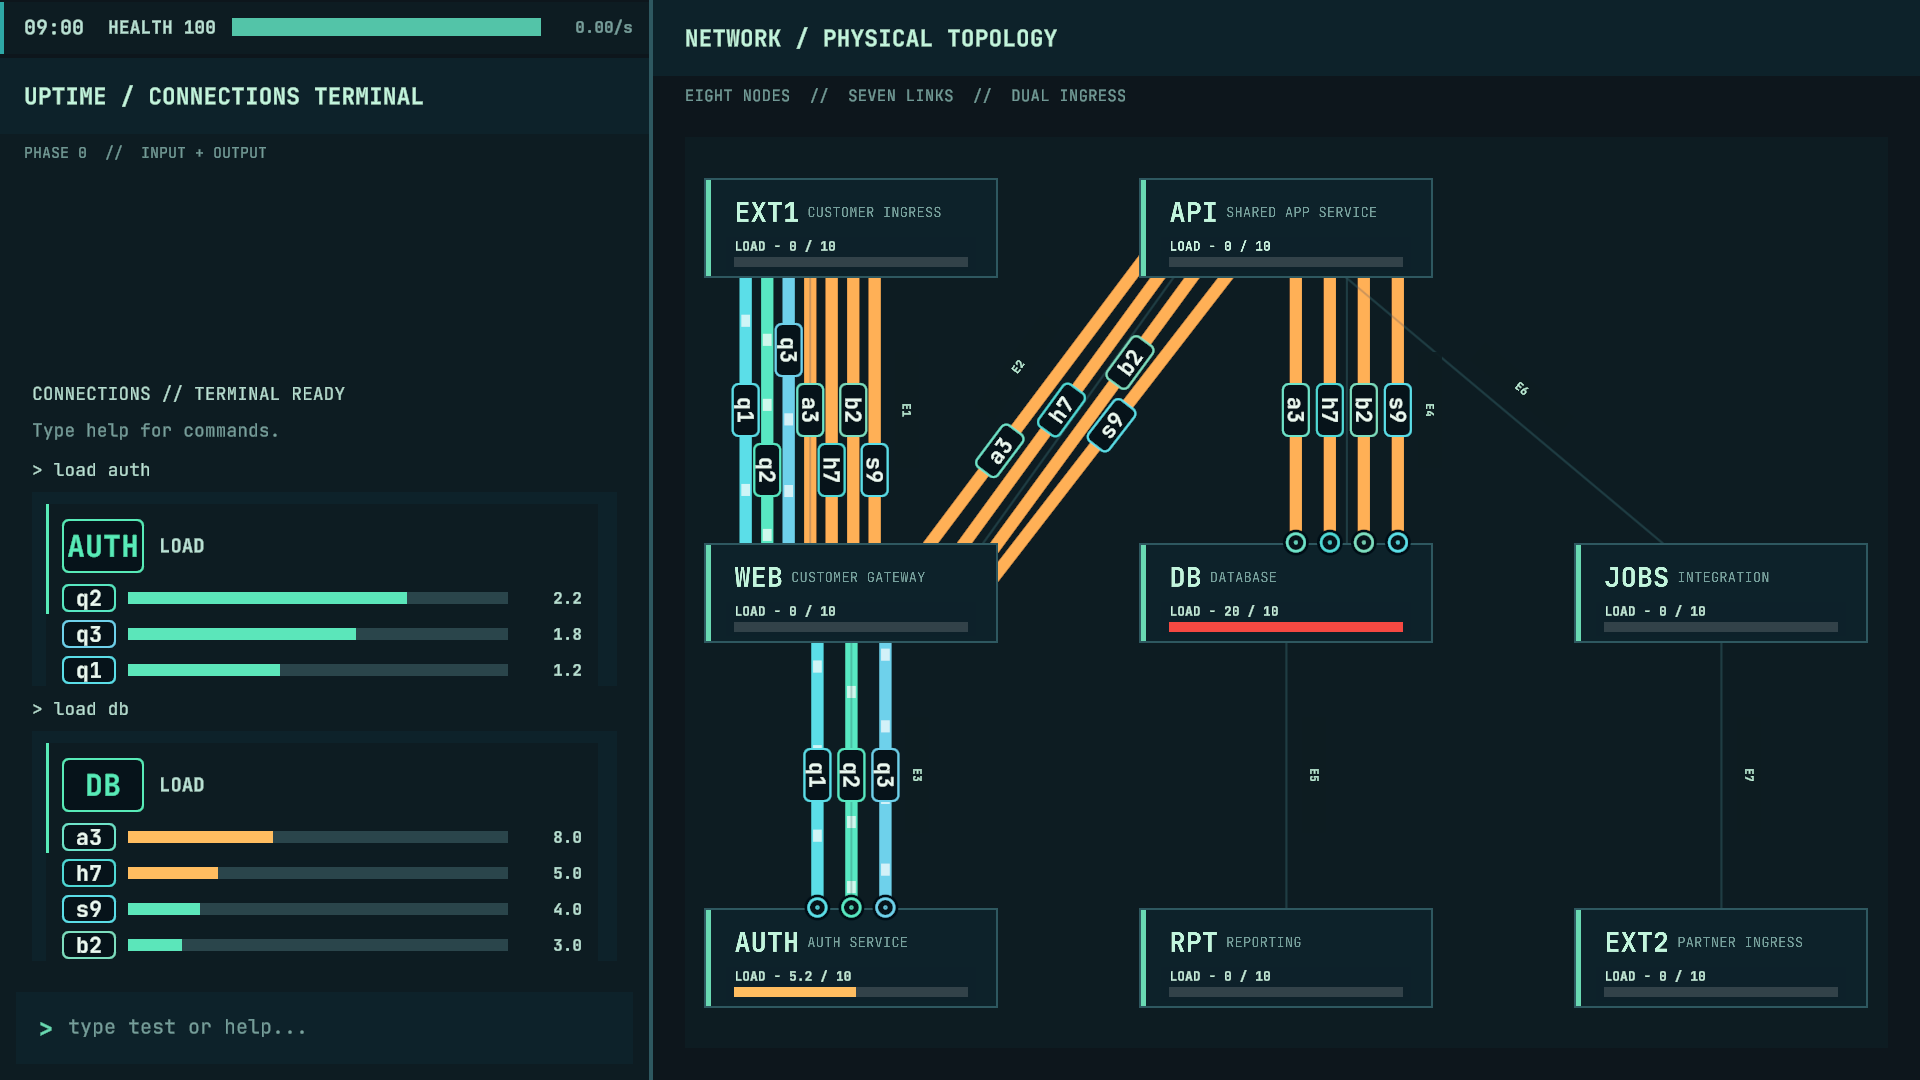
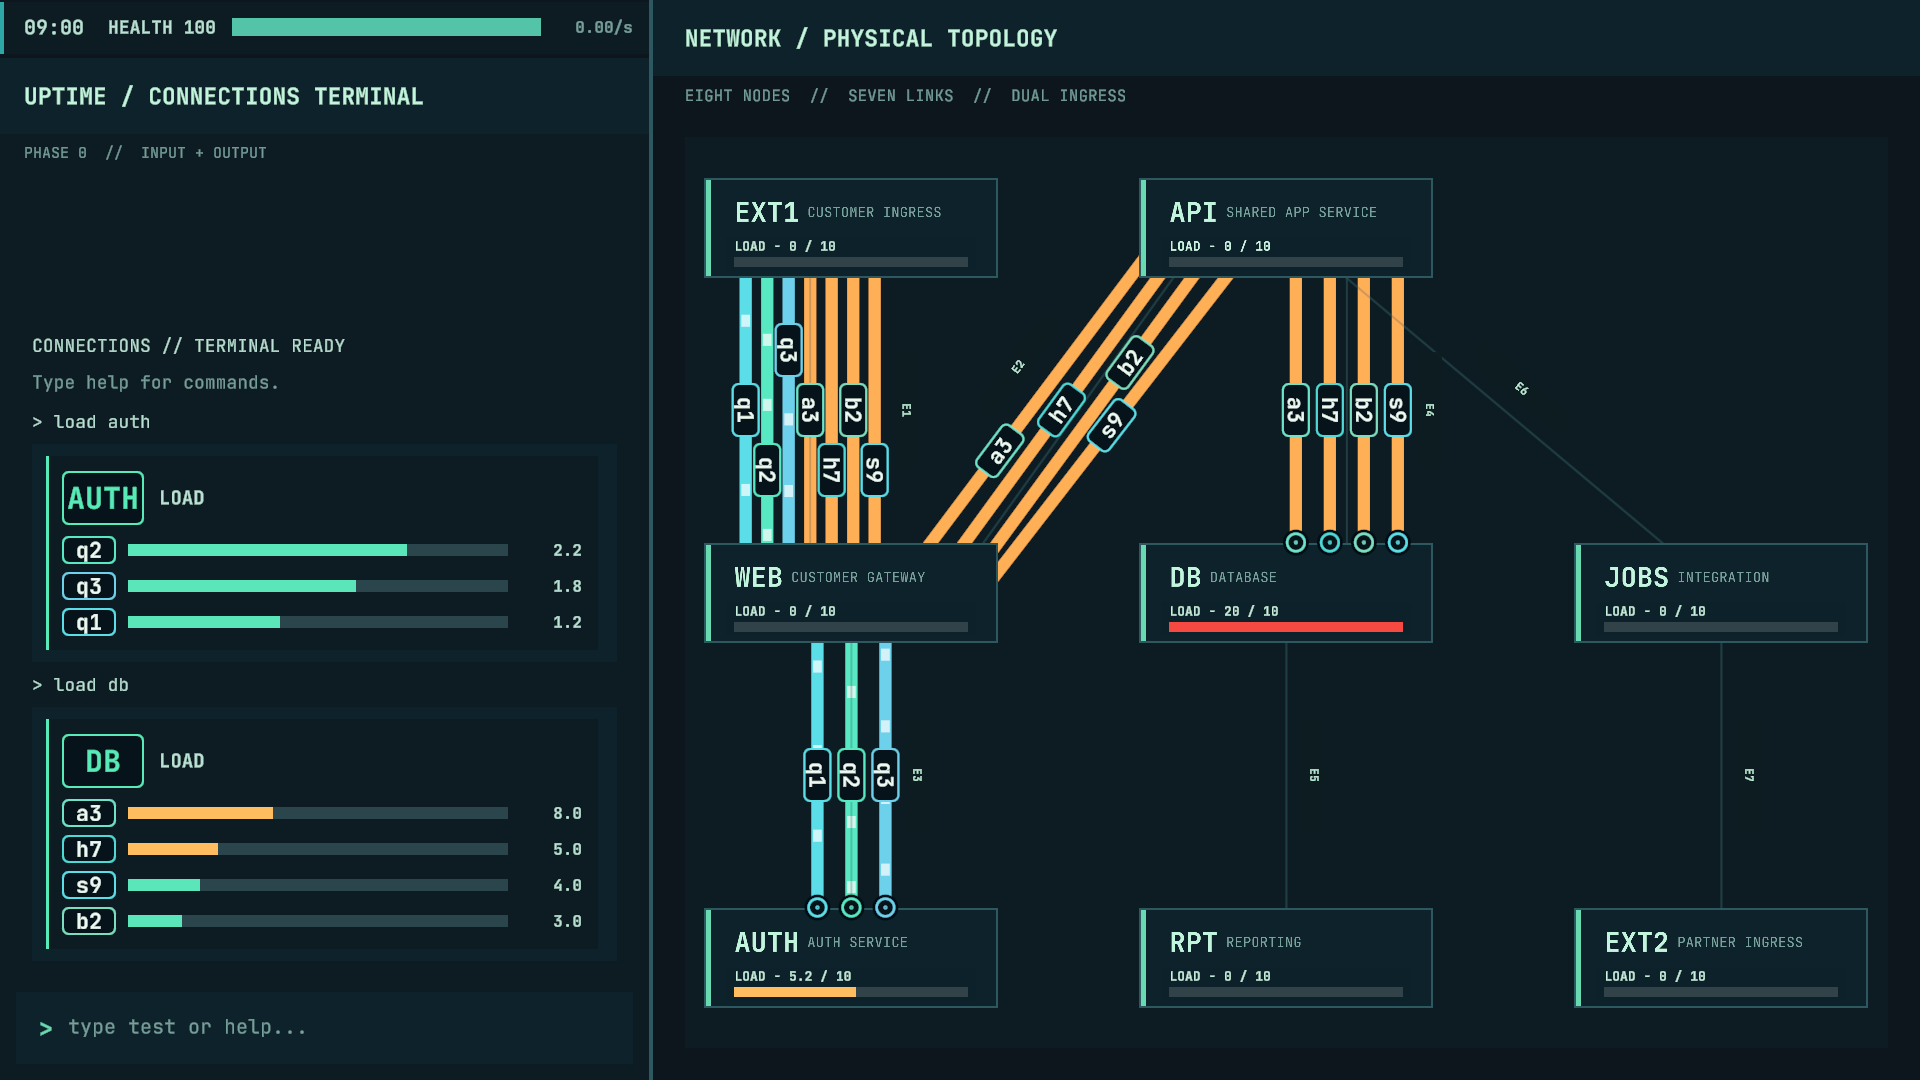
Restore LOAD card bottom spacing

Changed region(s): [[0.0312, 0.4278, 0.3125, 0.8861], [0.0, 0.3056, 0.1875, 0.3972], [0.0938, 0.3972, 0.125, 0.4278]]

diff --git a/Assets/Editor/LoadOutputWitness.cs b/Assets/Editor/LoadOutputWitness.cs
@@ -57,9 +57,6 @@ namespace Uptime.Connections.EditorTools
 
                 var parent = new GameObject("LOAD witness width", typeof(RectTransform));
                 ((RectTransform)parent.transform).sizeDelta = new Vector2(320f, 800f);
-                var scroll = parent.AddComponent<ScrollRect>();
-                scroll.enabled = false;
-                scroll.viewport = (RectTransform)parent.transform;
                 LoadOutput panel = UnityEngine.Object.Instantiate(prefab, parent.transform);
                 LoadOutput second = UnityEngine.Object.Instantiate(prefab, parent.transform);
                 try
@@ -77,9 +74,10 @@ namespace Uptime.Connections.EditorTools
                         !Rows(panel).Any() && panel.CurrentScale == 3f,
                         "zero-demand node has no obsolete rows");
                     Check(((RectTransform)panel.transform).rect.width == 320f &&
-                        ((RectTransform)panel.transform).rect.height == 122f &&
+                        ((RectTransform)panel.transform).rect.height == 146f &&
                         Empty(panel).preferredWidth <= Empty(panel).rectTransform.rect.width,
                         "narrow terminal width and empty layout");
+                    CheckBottomGutter(panel, 0);
 
                     NodeView[] route = { Node(host, "EXT1"), Node(host, "API"),
                         Node(host, "DB") };
@@ -95,6 +93,7 @@ namespace Uptime.Connections.EditorTools
                         RowFill(small).color == PanelColor(panel, "modestColor") &&
                         host.FindConnection("l5").AllocatedLoad == 2.2f,
                         "small request gets a useful relative teal bar at full allocation");
+                    CheckBottomGutter(panel, 1);
                     panel.Bind("DB", host);
                     Queue(traffic, route, "l1", new OperationStage(OperationKind.Read,
                         1000f, 4f, "spiking", behaviors: new[] {
@@ -115,6 +114,7 @@ namespace Uptime.Connections.EditorTools
                         panel.CurrentScale == second.CurrentScale &&
                         RowIds(panel).SequenceEqual(new[] { "l2", "l1", "l3" }),
                         "multiple panels share authoritative requests independently");
+                    CheckBottomGutter(panel, 3);
                     float low = spike.DesiredLoad;
                     float lowBar = Row(panel, "l1").FillFraction;
                     Check(low >= 3.9f && low <= 4.1f &&
@@ -187,6 +187,7 @@ namespace Uptime.Connections.EditorTools
                         panel.GetComponentsInChildren<LoadRequestRow>(true)
                             .Count(r => r.gameObject.activeSelf) == 2,
                         "resolved demand row disappears and layout contracts");
+                    CheckBottomGutter(panel, 2);
                     RefreshAt(panel, clock + 8.3f);
                     Check(panel.CurrentScale <= 5f &&
                         RowIds(panel).SequenceEqual(new[] { "l1", "l3" }),
@@ -217,6 +218,7 @@ namespace Uptime.Connections.EditorTools
                     Check(panel.ConnectionRowCount == 0 && second.ConnectionRowCount == 0 &&
                         !Rows(panel).Any() && Empty(panel).gameObject.activeSelf,
                         "reset clears old connection references in both panels");
+                    CheckBottomGutter(panel, 0);
                 }
                 finally
                 {
@@ -272,13 +274,9 @@ namespace Uptime.Connections.EditorTools
             int before = content.childCount;
             typeof(Terminal).GetMethod("Load", BindingFlags.Instance |
                 BindingFlags.NonPublic).Invoke(terminal, new object[] { new[] { "load", id } });
-            var panel = content.GetChild(before).GetComponent<LoadOutput>();
-            Check(content.childCount == before + 1 && panel != null &&
-                Mathf.Abs(((RectTransform)panel.transform).rect.width -
-                    Mathf.Min(580f, content.rect.width)) < 0.01f &&
-                Mathf.Abs(((RectTransform)panel.transform.Find("LoadCard")).rect.width -
-                    (Mathf.Min(580f, content.rect.width) - 28f)) < 0.01f,
-                "valid command appends a live panel with the inspect/scan gutter");
+            Check(content.childCount == before + 1 &&
+                content.GetChild(before).GetComponent<LoadOutput>() != null,
+                "valid command appends live panel");
         }
 
         private static void CheckError(Terminal terminal, string[] tokens, string expected)
@@ -327,6 +325,35 @@ namespace Uptime.Connections.EditorTools
         private static LoadRequestRow Row(LoadOutput panel, string id) =>
             Rows(panel).Single(r => r.DisplayedId.Equals(id,
                     StringComparison.OrdinalIgnoreCase));
+
+        private static void CheckBottomGutter(LoadOutput panel, int expectedRows)
+        {
+            var root = (RectTransform)panel.transform;
+            var card = (RectTransform)root.Find("LoadCard");
+            var rail = (RectTransform)card.Find("AccentRail");
+            var rows = (RectTransform)card.Find("Rows");
+            float outside = root.rect.height + card.anchoredPosition.y - card.rect.height;
+            LoadRequestRow[] active = Rows(panel);
+            Check(active.Length == expectedRows && Mathf.Abs(outside - 12f) < .01f &&
+                Mathf.Abs(rail.rect.height - card.rect.height) < .01f,
+                "LOAD card has the same 12-unit outer bottom gutter and full-height rail as other cards");
+            if (active.Length == 0)
+            {
+                TMP_Text empty = Empty(panel);
+                float inside = card.rect.height + empty.rectTransform.anchoredPosition.y -
+                    empty.rectTransform.rect.height;
+                Check(inside >= 12f, "empty LOAD state has bottom breathing room");
+            }
+            else
+            {
+                var last = (RectTransform)active.OrderBy(r =>
+                    ((RectTransform)r.transform).anchoredPosition.y).First().transform;
+                float inside = card.rect.height + rows.anchoredPosition.y +
+                    last.anchoredPosition.y - last.rect.height;
+                Check(Mathf.Abs(inside - 12f) < .01f,
+                    "last LOAD row keeps a 12-unit bottom inset as rows change");
+            }
+        }
 
         private static void Check(bool result, string message)
         {

diff --git a/Assets/Scripts/Connections/LoadOutput.cs b/Assets/Scripts/Connections/LoadOutput.cs
@@ -135,7 +135,7 @@ namespace Uptime.Connections
             FitWidth();
             int count = order.Count;
             if (emptyText != null) emptyText.gameObject.SetActive(count == 0);
-            float height = 90f + Mathf.Max(1, count) * rowHeight +
+            float height = 114f + Mathf.Max(1, count) * rowHeight +
                 Mathf.Max(0, count - 1) * rowGap;
             RectTransform root = (RectTransform)transform;
             if (Mathf.Abs(root.rect.height - height) > 0.01f)
@@ -187,8 +187,12 @@ namespace Uptime.Connections
         {
             RectTransform root = (RectTransform)transform;
             RectTransform parent = transform.parent as RectTransform;
-            float width = parent != null && parent.rect.width > 0f ?
-                Mathf.Min(580f, parent.rect.width) : root.rect.width;
+            ScrollRect scroll = GetComponentInParent<ScrollRect>();
+            float viewportWidth = scroll != null && scroll.viewport != null ?
+                scroll.viewport.rect.width - 12f : 0f;
+            float available = viewportWidth > 0f ? viewportWidth :
+                parent != null && parent.rect.width > 0f ? parent.rect.width : root.rect.width;
+            float width = Mathf.Min(580f, available);
             root.SetSizeWithCurrentAnchors(RectTransform.Axis.Horizontal, width);
             if (layout != null) layout.preferredWidth = width;
             float cardWidth = Mathf.Max(0f, width - 28f);
@@ -214,7 +218,7 @@ namespace Uptime.Connections
             RectTransform root = (RectTransform)transform;
             root.SetSizeWithCurrentAnchors(RectTransform.Axis.Vertical, height);
             if (card != null)
-                card.SetSizeWithCurrentAnchors(RectTransform.Axis.Vertical, height - 12f);
+                card.SetSizeWithCurrentAnchors(RectTransform.Axis.Vertical, height - 24f);
             if (layout != null) layout.preferredHeight = height;
         }
 

diff --git a/Docs/Review/ConnectionsLoadDiagnosticV0/README.md b/Docs/Review/ConnectionsLoadDiagnosticV0/README.md
@@ -6,7 +6,7 @@ Bar length compares visible requests using `max(3, largest request × 1.15)` rou
 
 ## Scripted 16:9 Play Mode captures
 
-**Gutter follow-up:** The LOAD panel now uses the same history-content width as inspect and scan. Its former viewport-minus-12 calculation made the right gutter wider when the terminal was narrower than the panel's 580-unit width cap. The focused witness checks alignment in a 320-unit scroll viewport. The 1920-by-1080 captures below are at the width cap, so they do not show this narrow-width correction.
+**Bottom gutter follow-up:** LOAD now gives the final row 12 units inside the card and leaves another 12 units below the card, matching the inspect/scan composition. Its accent rail stretches with the card as rows appear and disappear. The earlier speculative width change was reverted. The focused witness checks empty, single, multiple, and shrinking row layouts; the captures below show the corrected spacing.
 
 These 1920×1080 frames came from Unity 6000.3.11f1 Play Mode in `ConnectionsAdvanced.unity`. A temporary, ignored capture driver disabled automatic traffic, established explicit test connections, stepped the simulation, submitted normal terminal commands, refreshed panels, and snapped bar animations to their current targets for each still. It advanced the panel's UI clock for the recovery image. The images establish layout and values, **not interactive animation, scrolling, or keyboard-focus behavior**.
 
@@ -24,7 +24,7 @@ These 1920×1080 frames came from Unity 6000.3.11f1 Play Mode in `ConnectionsAdv
 
 An isolated project copy under ignored `Temp/AdvancedSceneValidation` compiled the branch. `LoadOutputWitness` passed: both scenes have all baseline settings at zero; authored prefab bindings/material and removal of the aggregate header; valid/invalid commands; empty text; multiple panels; a 2.2-LOAD request filling over 70% of a teal bar; 18.0 requested versus lower allocated LOAD under contention; WAVING effective LOAD; SPIKING scale growth, graceful hold, and smooth contraction; stable order; infection exclusion while the normal node bar still displays the higher total; arrival, operation transition, kill, reset, and narrow layout. `ResourceWitness` also passed explicit nonzero baseline scenarios (DB baseline 2 and 10), so the underlying allocator behavior remains exercised.
 
-The existing Connections regression batch passed: Worm, Payload, Geometry, Condition, Recon Event Lifecycle, Node Status, Scan, Infection, Traffic, Recorder, Network Health, Resource, Behavior, Lifecycle, Advanced Scene, and Inspect V2 witnesses. The Advanced scene witness's 600-second seeds still passed. Its plan/infection counts were 1701: 23 benign, 13 ordinary hostile, 5 Reconnaissance, 5 infections; 3141: 27, 4, 1, 3; 9001: 15, 12, 7, 9. The older baseline-one run produced 23/13/5/5, 26/4/1/4, and 18/12/7/6 respectively. The differing downstream counts are expected from changed available capacity; generation settings were not retuned.
+The existing Connections regression batch passed: Worm, Payload, Geometry, Condition, Recon Event Lifecycle, Node Status, Scan, Infection, Traffic, Recorder, Network Health, Resource, Behavior, Lifecycle, Advanced Scene, and Inspect V2 witnesses. The bottom-gutter follow-up reran this batch and the focused LOAD witness, including geometry checks for empty, one-row, multi-row, and shrinking LOAD cards. Its refreshed scripted Play Mode captures show the new spacing. The Advanced scene witness's 600-second seeds still passed. Its plan/infection counts were 1701: 23 benign, 13 ordinary hostile, 5 Reconnaissance, 5 infections; 3141: 27, 4, 1, 3; 9001: 15, 12, 7, 9. The older baseline-one run produced 23/13/5/5, 26/4/1/4, and 18/12/7/6 respectively. The differing downstream counts are expected from changed available capacity; generation settings were not retuned.
 
 `AmbientHostileActivityWitness` passed four unattended 600-second Advanced runs with no player intervention. Its prior hard-coded expectation that seeds 1702–1704 all fail was removed because that outcome depended on the old scene baseline. The witness still verifies that `Failed` is latched consistently with the first failed sample and that benign Health-impact samples do not exceed all-connection slow/overdue samples. All four selected-activity counts remained 22, 15, 20, and 21 opportunities, with no selection failures.
 
